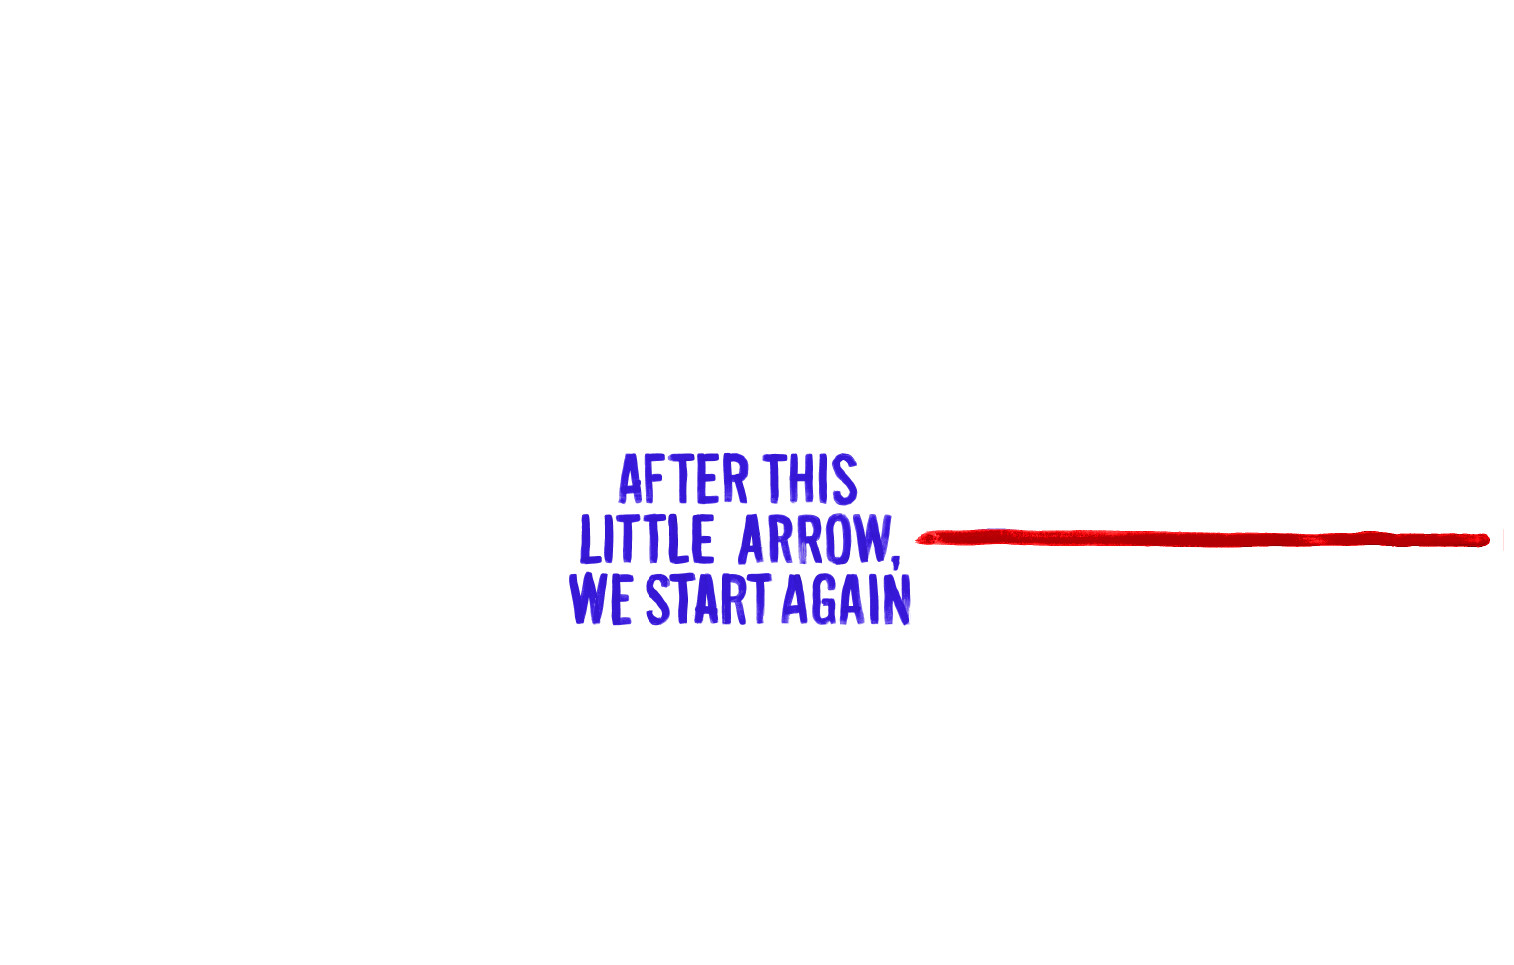
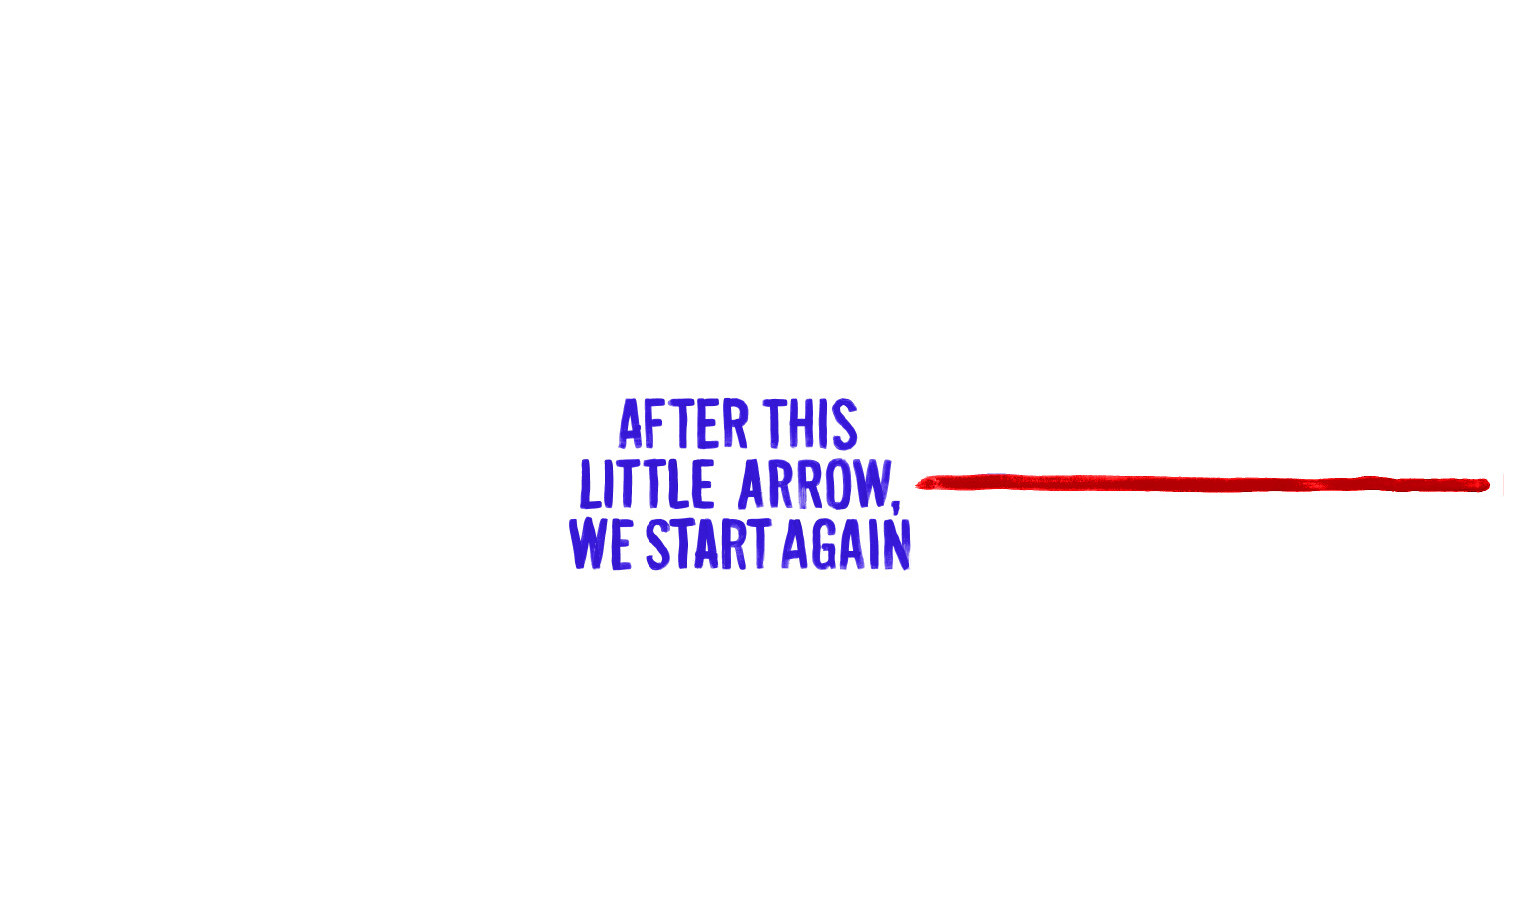
header y otros arreglos

Changed region(s): [[0.3725, 0.4308, 0.9934, 0.6462]]

diff --git a/css/ganztoll.css b/css/ganztoll.css
@@ -11,10 +11,23 @@ section#home img
 section#home .flecha
 {
 	padding: 0;
+	opacity: 0;
+	transition: opacity 0.3s;
 }
 
 header img
 {
 	position: absolute;
 	z-index: 50000;
+	max-width: 100%;
+}
+
+header .botonera
+{
+	padding: 0;
+}
+
+header .facebook
+{
+	text-align: right;
 }

diff --git a/application/views/master_page.php b/application/views/master_page.php
@@ -35,13 +35,13 @@
 		<div id="mainWrapper" class="container">
 			<header>
 				<div class="row">
-					<div class="col-2">
-						<img src="images/botonera.png" /> a
+					<div class="col-4 col-md-2 botonera">
+						<img src="images/botonera.png" />
 					</div>
-					<div class="col-9">
+					<div class="col-6 col-md-8">
 						
 					</div>
-					<div class="col-1">
+					<div class="col-1 facebook">
 						<img src="images/fcb-bot.png" />
 					</div>
 				</div>

diff --git a/application/views/home.php b/application/views/home.php
@@ -28,7 +28,11 @@
 		});
 
 		$(window).resize( function() {
-			$('section#home .flecha').css( 'margin-top', $(document).height() / 2 - $('section#home .flecha').height() / 2 );
+			$('section#home .flecha').css('opacity',0);
+			setTimeout( function() {
+				$('section#home .flecha').css( 'margin-top', $('body').height() / 2 - $('section#home .flecha').height() / 2 );
+				$('section#home .flecha').css('opacity',1);
+			}, 400 );
 		});
 
 		$(window).resize();
